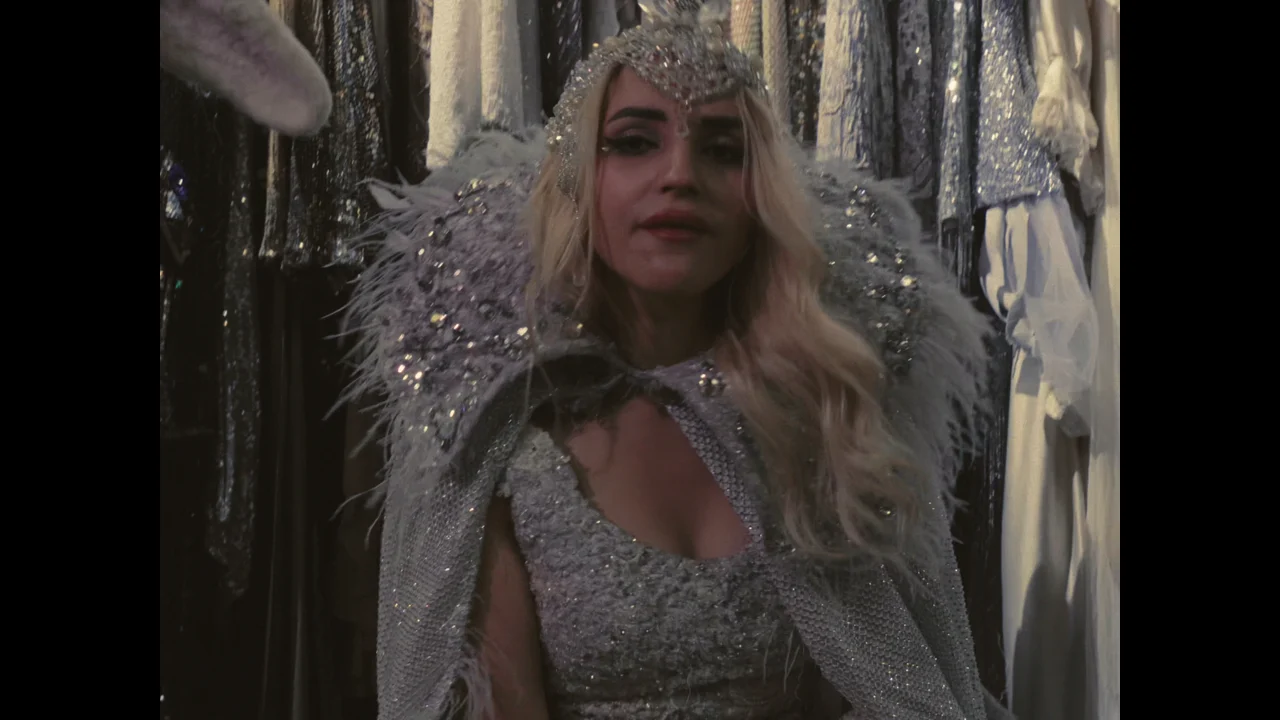
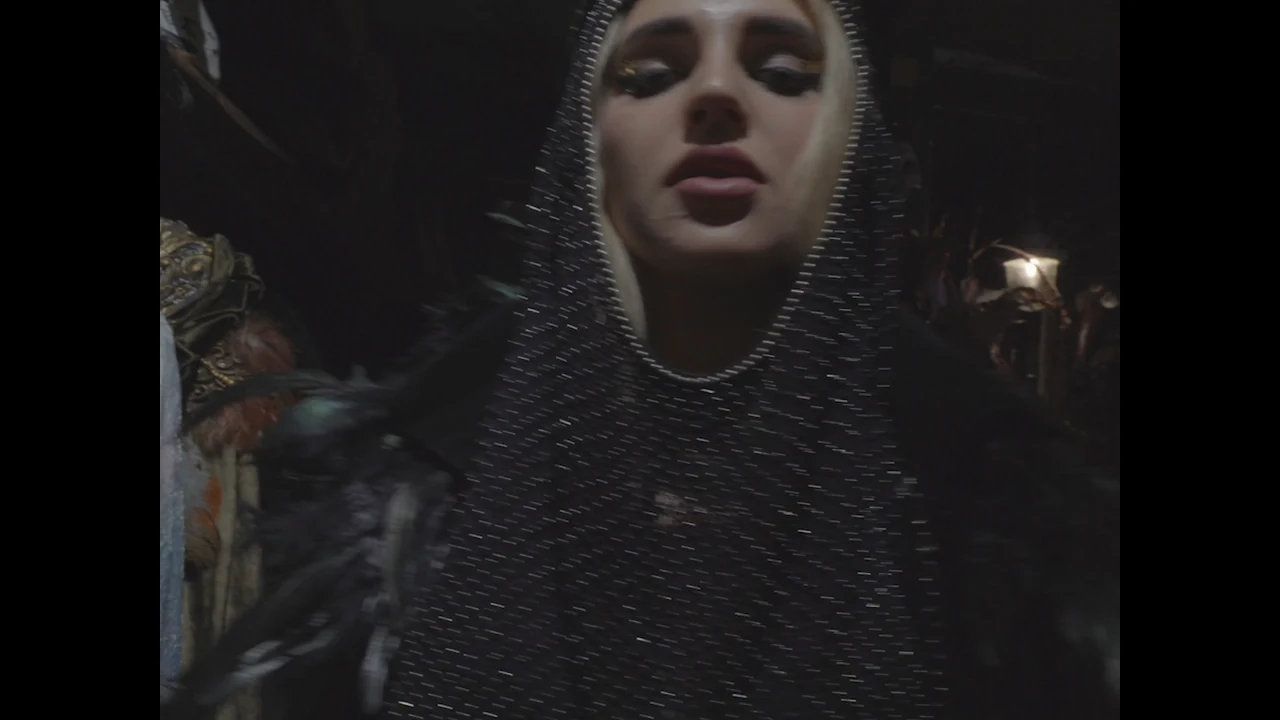
The chapters show their own frames, and say where to watch
Two faults, both mine.

The stills went into ChapterRow, which this page does not use. The Alderwick
Archives block has its own markup, pointing at a path no file was ever
written to — and because Plate falls back to its caption when an image is
missing, every chapter was reading 'still to come'. Four of the five are out.
It now takes the still from the episode data, so there is one place to change.

There were no links at all. Each chapter that is out now carries its own
button — YouTube for the two that are free there, the channel for the third,
early access for the fourth — and the channel is offered alongside wherever
it is not already the main one. A chapter that is out nowhere gets no button:
a link that leads somewhere useless is worse than none.

Also: the untitled chapters were rendering an empty heading, and the FAMOUS
video poster was a frame caught mid-word with the eyes half closed. Replaced
with a held frame, letterboxed the same way so the player does not jump.

diff --git a/src/pages/SeriesPage.tsx b/src/pages/SeriesPage.tsx
@@ -93,23 +93,62 @@ const SeriesPage = () => {
                 style={{ borderColor: "var(--aw-rule)" }}
               >
                 <Plate
-                  src={`/image/series/episodes/${episode.id}.jpg`}
-                  alt={`A still from ${episode.title}`}
-                  caption={`Chapter ${episode.number} — still to come`}
+                  src={episode.still?.src ?? `/image/series/episodes/${episode.id}.jpg`}
+                  alt={episode.still?.alt ?? `A still from Chapter ${episode.number}`}
+                  /* Shown only if the file is missing, so it has to describe
+                     the chapter rather than claim it is unreleased: four of
+                     the five are out. */
+                  caption={`Chapter ${episode.number} · ${episode.statusLabel}`}
                   className="aspect-video w-full object-cover"
                 />
                 <div>
                   <p className="aw-label">
                     Chapter {episode.number} · {episode.statusLabel}
                   </p>
-                  <h3 className="aw-display mt-3 text-2xl">{episode.title}</h3>
-                  <p className="mt-3 text-sm leading-relaxed" style={{ color: "var(--aw-ivory-soft)" }}>
-                    {episode.description}
-                  </p>
+                  <h3 className="aw-display mt-3 text-2xl">
+                    {episode.title ?? `Chapter ${episode.number}`}
+                  </h3>
+                  {episode.description && (
+                    <p className="mt-3 text-sm leading-relaxed" style={{ color: "var(--aw-ivory-soft)" }}>
+                      {episode.description}
+                    </p>
+                  )}
                   {episode.availability && (
                     <p className="mt-3 text-[11px] uppercase tracking-[0.18em]" style={{ color: "var(--aw-ivory-faint)" }}>
                       {episode.availability}
                     </p>
+                  )}
+                  {/* Where to watch. A chapter that is not out anywhere gets no
+                      button: a link that leads nowhere is worse than none. The
+                      channel link is offered alongside, except where it is
+                      already the main one. */}
+                  {episode.status !== "upcoming" && (
+                    <div className="mt-5 flex flex-wrap items-center gap-x-6 gap-y-2">
+                      <a
+                        href={episode.cta.href}
+                        target="_blank"
+                        rel="noreferrer"
+                        className="inline-flex items-center gap-1.5 text-[11px] uppercase tracking-[0.18em]"
+                        style={{ color: "var(--aw-gold)" }}
+                      >
+                        {episode.cta.label}
+                        <span className="sr-only"> — Chapter {episode.number}</span>
+                        <ArrowUpRight className="h-3 w-3" strokeWidth={1.5} />
+                      </a>
+                      {episode.cta.href !== SERIES_LINKS.telegram && (
+                        <a
+                          href={SERIES_LINKS.telegram}
+                          target="_blank"
+                          rel="noreferrer"
+                          className="inline-flex items-center gap-1.5 text-[11px] uppercase tracking-[0.18em]"
+                          style={{ color: "var(--aw-ivory-faint)" }}
+                        >
+                          Watch on Telegram
+                          <span className="sr-only"> — Chapter {episode.number}</span>
+                          <ArrowUpRight className="h-3 w-3" strokeWidth={1.5} />
+                        </a>
+                      )}
+                    </div>
                   )}
                 </div>
               </motion.article>
